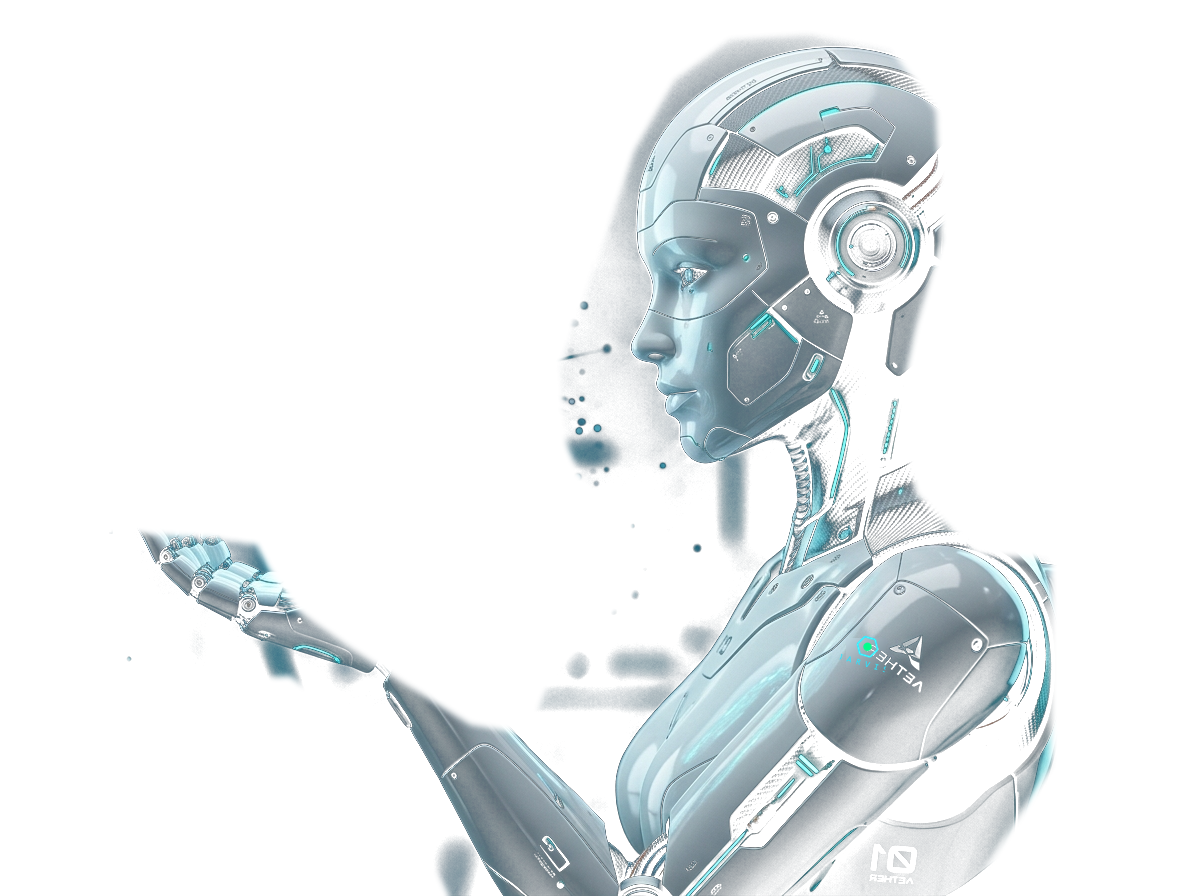
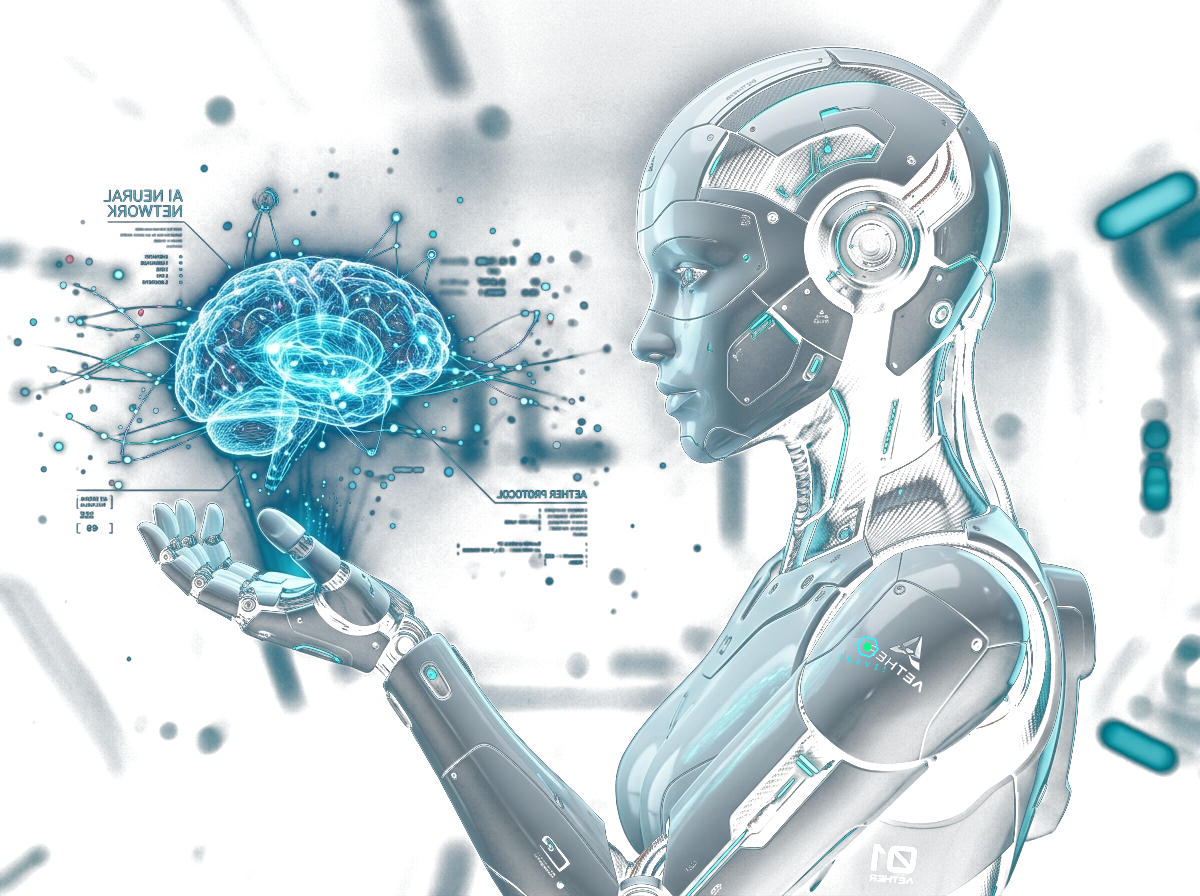
'Restauracion_Completa_Robot_con_Cerebro_y_Eliminacion_Esfera_3D_Superpuesta'

diff --git a/index.html b/index.html
@@ -1403,40 +1403,6 @@
         });
       });
 
-      // NÚCLEO ORÁCULO MAESTRO: REDUCIDO EXACTAMENTE AL TAMAÑO DEL CEREBRO (RADIO 1.6) Y FLOTANDO ARRIBA DE ESTE
-      const coreGeo = new THREE.IcosahedronGeometry(1.6, 3);
-      const coreMat = new THREE.MeshPhongMaterial({
-        color: 0x00ff88,
-        emissive: 0x00ff88,
-        emissiveIntensity: 0.55,
-        wireframe: true,
-        transparent: true,
-        opacity: 0.75
-      });
-      const coreMesh = new THREE.Mesh(coreGeo, coreMat);
-      coreMesh.position.set(0, 0, 0);
-      constellationGroup.add(coreMesh);
-
-      const coreLabel = document.createElement('div');
-      coreLabel.className = 'node-label core-cluster';
-      coreLabel.textContent = '⚡ ORÁCULO MAESTRO';
-      container.appendChild(coreLabel);
-      nodeObjects.push({ mesh: coreMesh, label: coreLabel, isCore: true });
-
-      const ringGeo1 = new THREE.TorusGeometry(3.6, 0.04, 16, 120);
-      const ringMat1 = new THREE.MeshBasicMaterial({ color: 0x38e6ff, transparent: true, opacity: 0.55 });
-      const ring1 = new THREE.Mesh(ringGeo1, ringMat1);
-      ring1.position.set(0, 0, 0);
-      ring1.rotation.x = Math.PI / 2.2;
-      constellationGroup.add(ring1);
-
-      const ringGeo2 = new THREE.TorusGeometry(4.8, 0.05, 16, 120);
-      const ringMat2 = new THREE.MeshBasicMaterial({ color: 0xffb627, transparent: true, opacity: 0.45 });
-      const ring2 = new THREE.Mesh(ringGeo2, ringMat2);
-      ring2.position.set(0, 0, 0);
-      ring2.rotation.y = Math.PI / 3.2;
-      constellationGroup.add(ring2);
-
       let mouseX = 0, mouseY = 0;
       window.addEventListener('mousemove', (e) => {
         mouseX = (e.clientX / window.innerWidth) * 2 - 1;
@@ -1482,14 +1448,6 @@
         camera.lookAt(0, 2.5, 0);
 
         nodeObjects.forEach(obj => {
-          if (obj.isCore) {
-            obj.mesh.rotation.x += 0.008;
-            obj.mesh.rotation.y += 0.012;
-            const pulse = 1 + Math.sin(elapsed * 2.8) * 0.05;
-            obj.mesh.scale.set(pulse, pulse, pulse);
-            return;
-          }
-          
           const oscX = Math.sin(elapsed * obj.speed + obj.phase) * 0.5;
           const oscY = Math.cos(elapsed * obj.speed * 1.3 + obj.phase) * 0.6;
           const oscZ = Math.sin(elapsed * obj.speed * 0.8 + obj.phase) * 0.5;
@@ -1509,9 +1467,6 @@
           }
         });
 
-        ring1.rotation.z += 0.014;
-        ring2.rotation.x -= 0.01;
-        
         renderer.render(scene, camera);
         updateLabels();
       }
